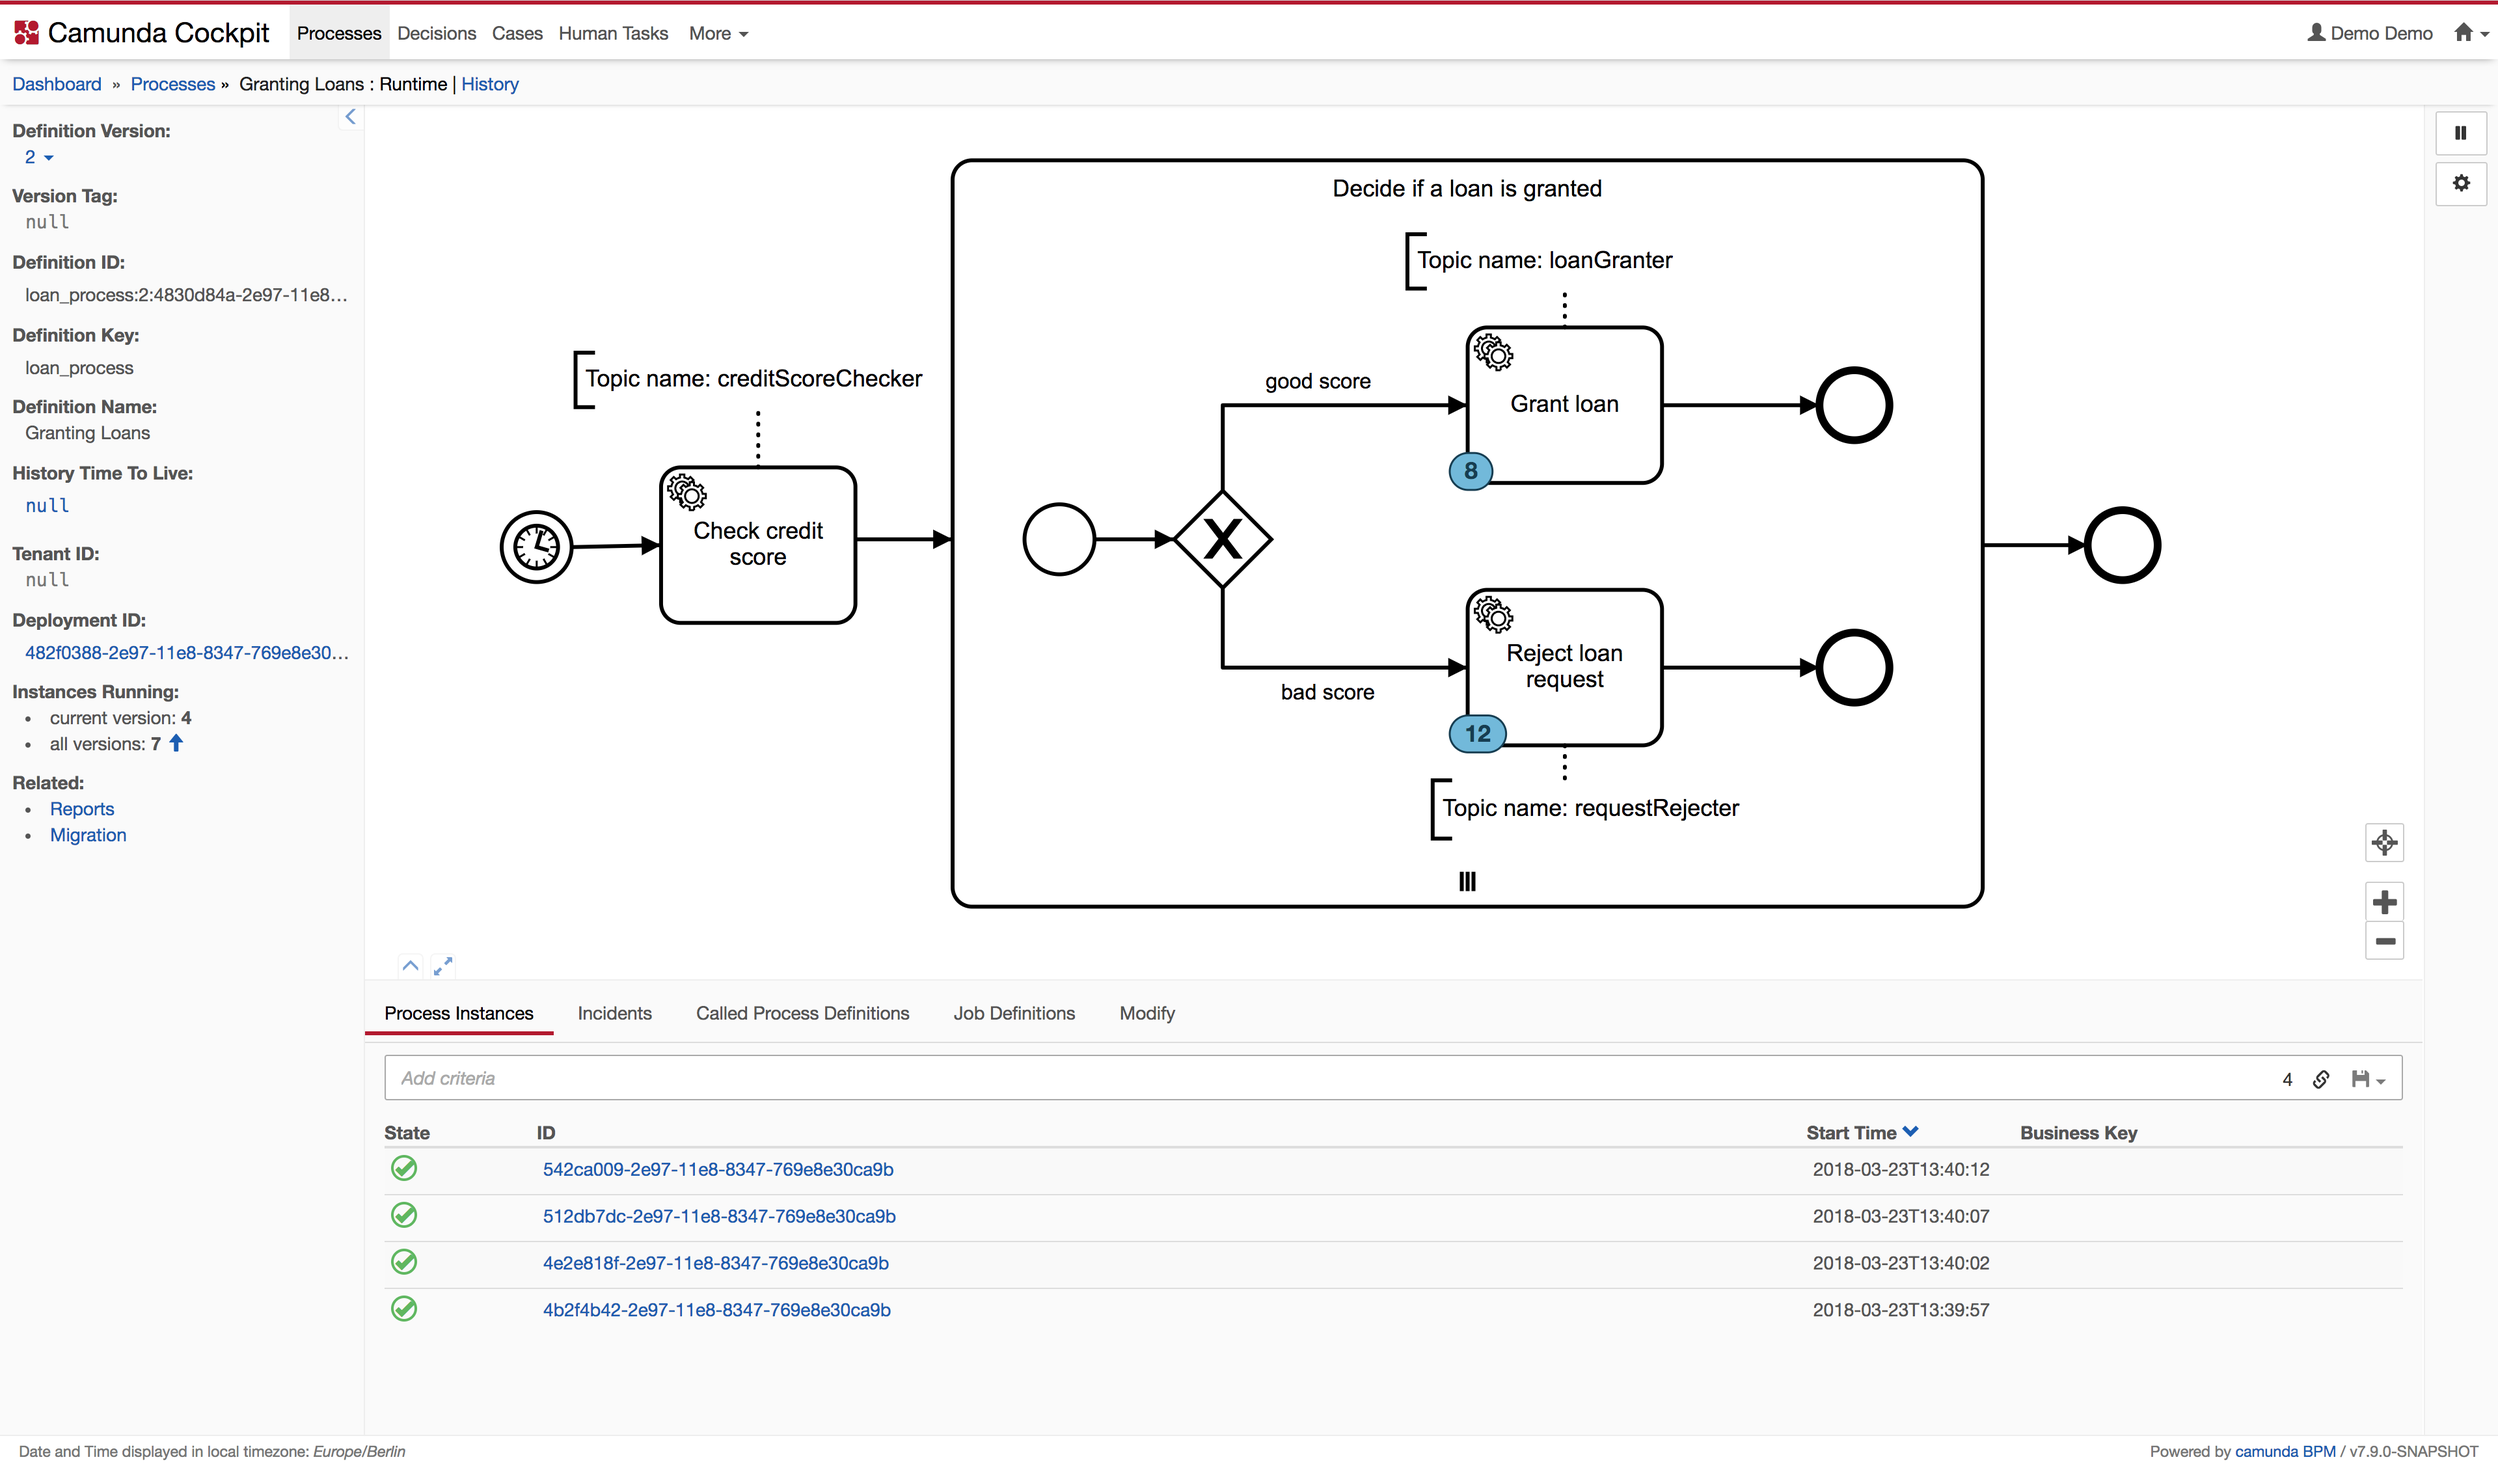
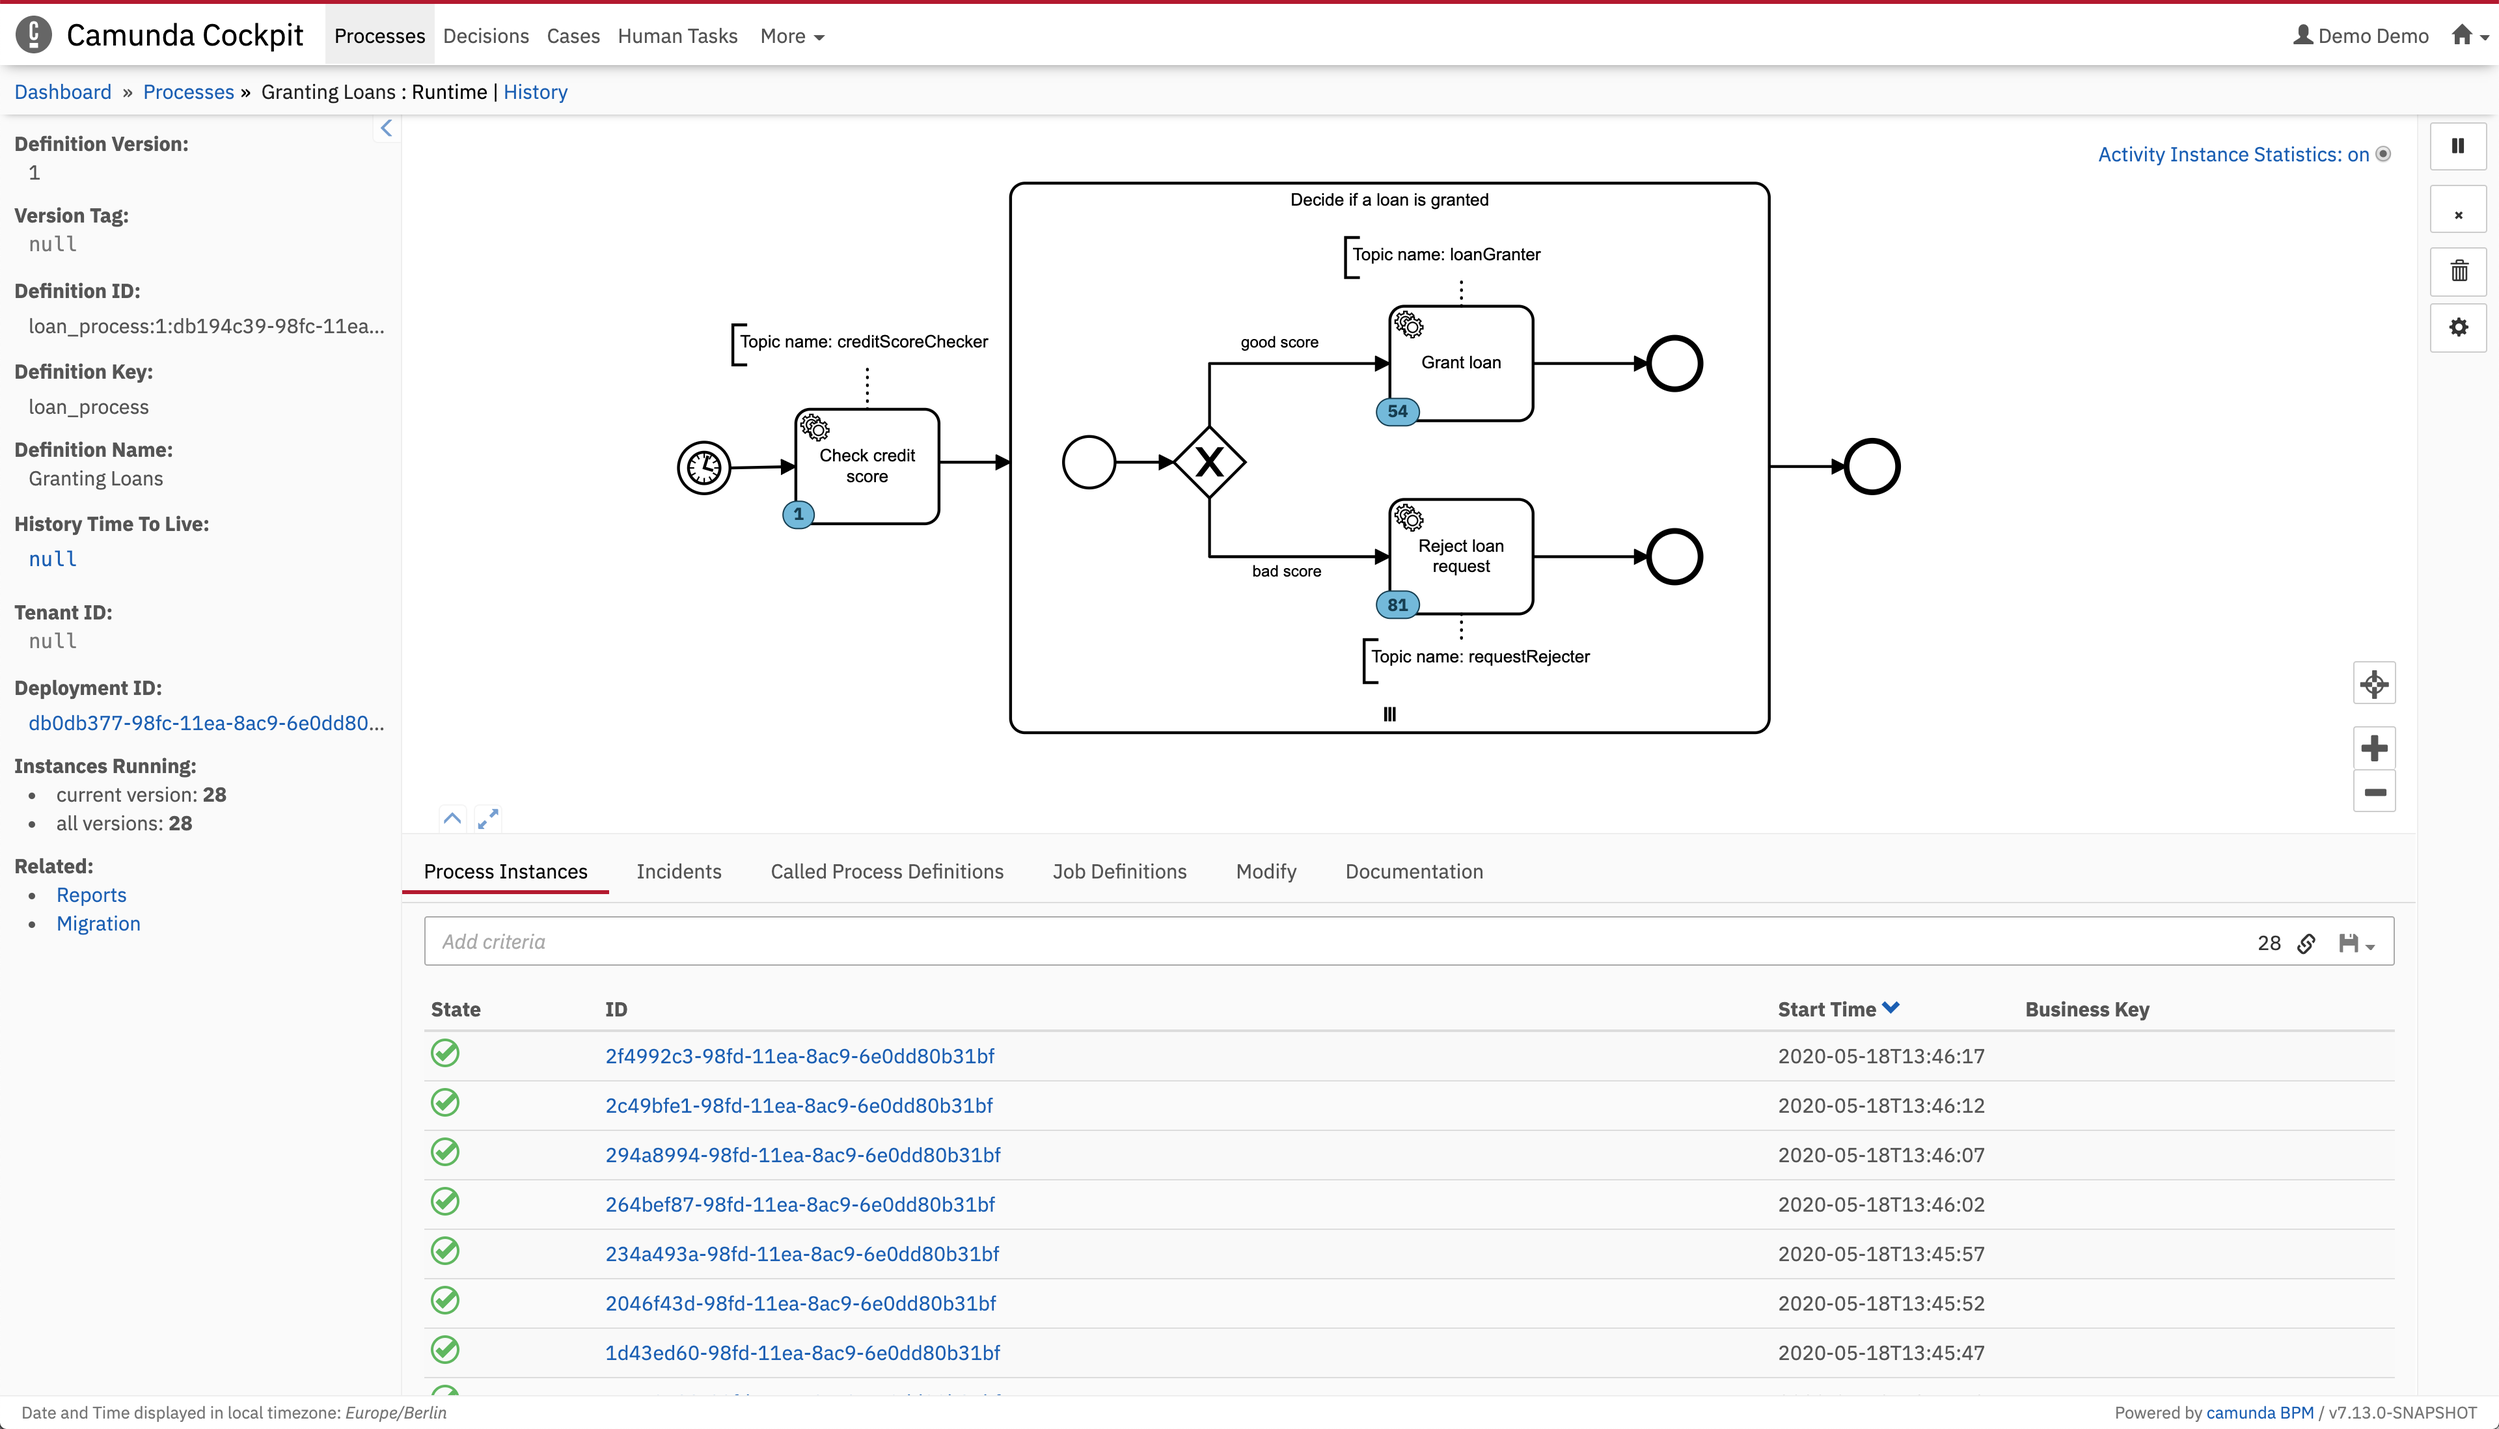
Adjust examples for 7.13 release
related to CAM-11853

diff --git a/examples/loan-granting/src/main/java/org/camunda/bpm/App.java b/examples/loan-granting/src/main/java/org/camunda/bpm/App.java
@@ -27,7 +27,7 @@ import java.util.List;
 
 public class App {
 
-  public static void main(String... args) throws InterruptedException {
+  public static void main(String... args) {
     // bootstrap the client
     ExternalTaskClient client = ExternalTaskClient.create()
       .baseUrl("http://localhost:8080/engine-rest")

diff --git a/examples/loan-granting/README.md b/examples/loan-granting/README.md
@@ -11,8 +11,8 @@ In a nutshell you will be guided through the following steps:
 ## Prerequisites
 * [Java JDK 8+](http://www.oracle.com/technetwork/java/javase/downloads/jdk8-downloads-2133151.html)
 * [Apache Maven](https://maven.apache.org/download.cgi)
-* [Camunda Modeler >= 1.12.0](https://camunda.org/release/camunda-modeler/1.12.0/)
-* [Camunda BPM Platform](https://camunda.org/release/camunda-bpm/tomcat/7.10/camunda-bpm-tomcat-7.10.0.zip)
+* [Camunda Modeler >= 1.12.0](https://downloads.camunda.cloud/release/camunda-modeler/4.0.0/)
+* [Camunda BPM Platform](https://downloads.camunda.cloud/release/camunda-bpm/tomcat/7.13/)
 * Camunda External Task Client
 
 First, make sure that you have downloaded and installed all the necessary prerequisites. Please check the [compatibility matrix](https://docs.camunda.org/manual/user-guide/ext-client/compatibility-matrix/) if you use older client version.
@@ -100,7 +100,6 @@ client.subscribe("creditScoreChecker")
     System.out.println("The External Task " + externalTask.getId() + " has been completed!");
 
   }).open();
-
 ```
 
 Now, just run your application. The client starts to continuously fetch and lock for External Task instances.
